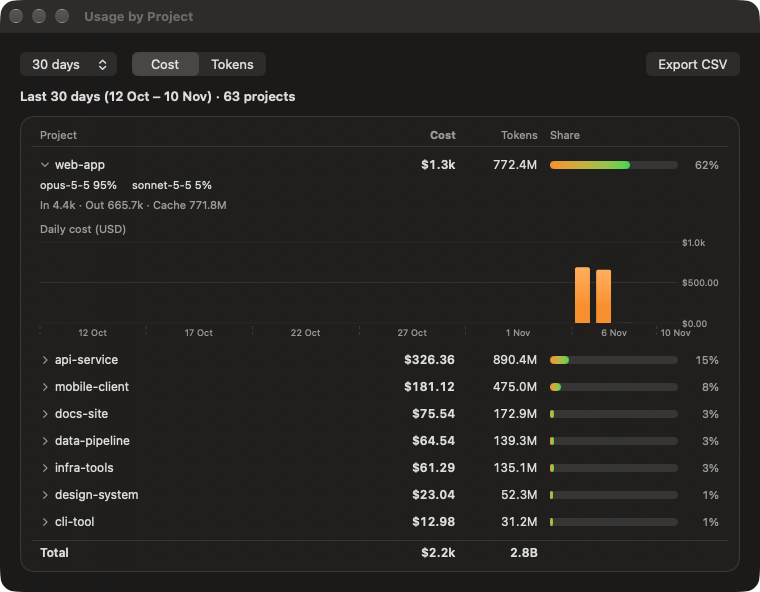
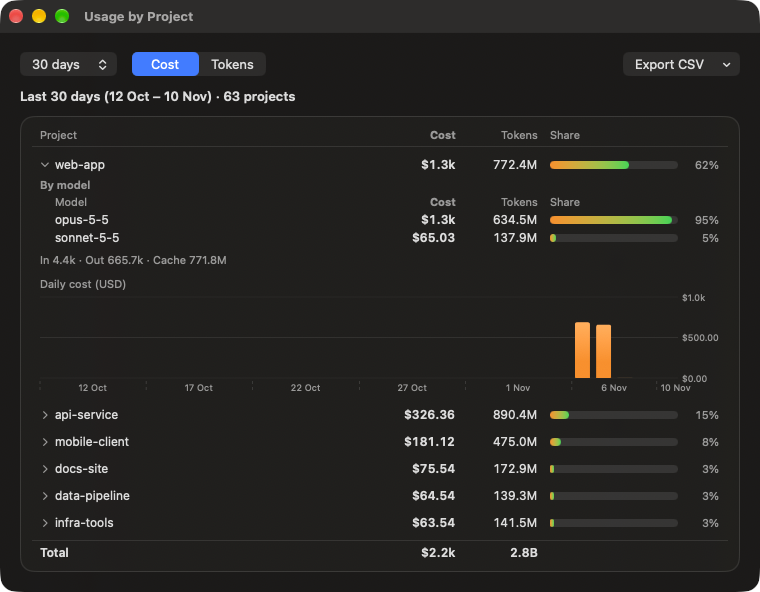
docs: project breakdown screenshot with per-model table

diff --git a/README.md b/README.md
@@ -21,7 +21,7 @@ A native macOS menu bar app (plus desktop widgets) that shows your **Claude Code
       <sub>90-day usage history: cost or tokens, model breakdown, CSV export</sub>
       <br><br>
       <img src="docs/images/projects.png" alt="Usage by Project window: projects ranked by cost with share bars, and an expanded project showing its model split and a daily cost chart" width="560"><br>
-      <sub>Usage by project: click a bar on Daily Usage (project names shown here are placeholders)</sub>
+      <sub>Usage by project: click a bar on Daily Usage. Each project expands to its model breakdown and daily trend (project names here are placeholders)</sub>
     </td>
   </tr>
 </table>
